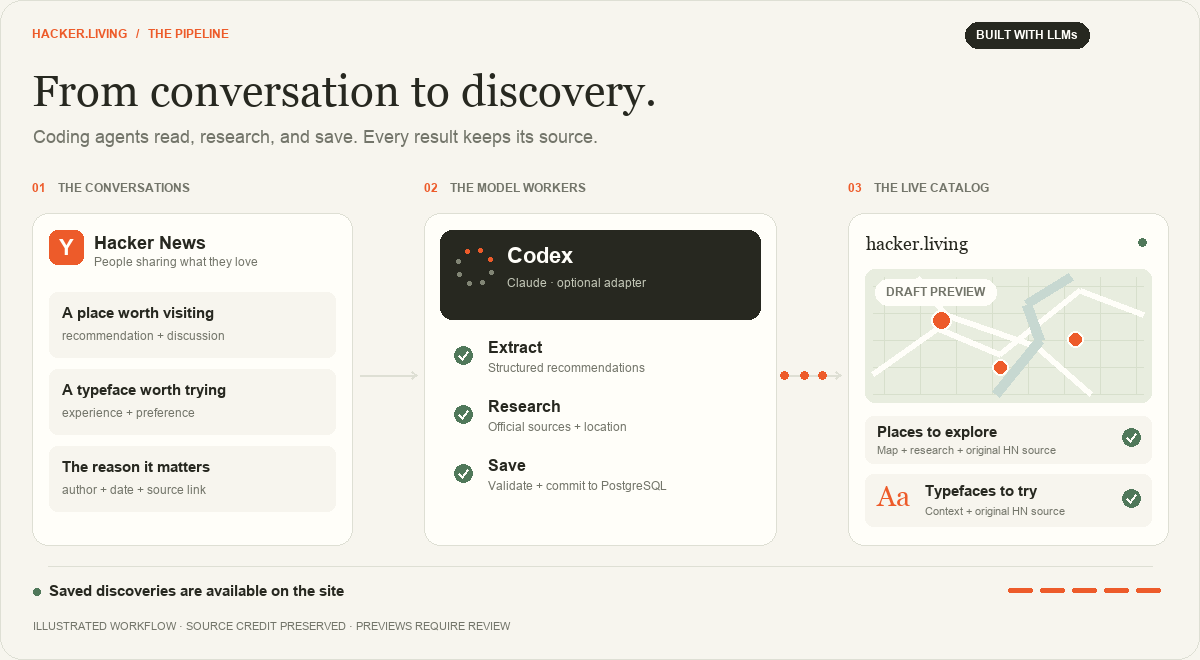
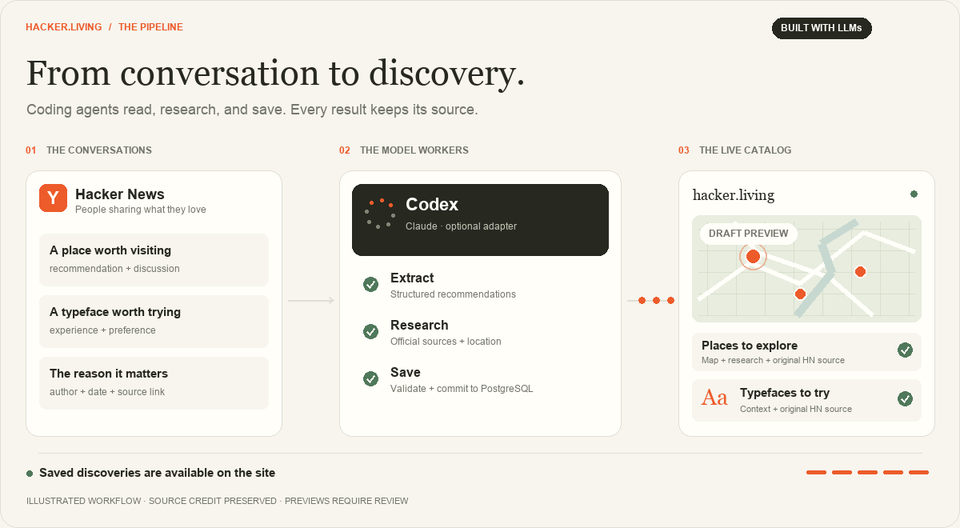
updated

diff --git a/scripts/render-readme.py b/scripts/render-readme.py
@@ -9,7 +9,9 @@ from PIL import Image, ImageDraw, ImageFont
 
 OUT = Path(sys.argv[1]) if len(sys.argv) > 1 else Path(__file__).resolve().parents[1] / 'docs/assets'
 OUT.mkdir(parents=True, exist_ok=True)
-W, H, FPS, SECONDS = 1200, 660, 15, 15
+W, H, FPS, SECONDS = 1200, 660, 12, 8
+OUTPUT_SIZE = (960, 528)
+NARRATIVE_SECONDS = 15
 BG = '#f7f5ee'
 INK = '#272820'
 MUTED = '#73756a'
@@ -148,21 +150,22 @@ def draw_frame(t):
 
 frames=[]
 for index in range(FPS*SECONDS):
-    t=index/FPS
+    t=index/FPS * NARRATIVE_SECONDS / SECONDS
     frame=draw_frame(t)
     # Fade to the start for a gentle loop; keep the header still.
     if t>14:
         frame=Image.blend(frame,draw_frame(0),ease(t-14))
-    frames.append(frame)
+    frames.append(frame.resize(OUTPUT_SIZE, Image.Resampling.LANCZOS))
 # A common palette prevents color flicker. Sample the whole narrative.
-samples=[frames[i] for i in [0,45,90,135,180]]
-sheet=Image.new('RGB',(W,H*len(samples)))
-for i,frame in enumerate(samples): sheet.paste(frame,(0,i*H))
+samples=[frames[round(fraction*(len(frames)-1))] for fraction in [0,.2,.4,.6,.8]]
+width,height=OUTPUT_SIZE
+sheet=Image.new('RGB',(width,height*len(samples)))
+for i,frame in enumerate(samples): sheet.paste(frame,(0,i*height))
 palette=sheet.quantize(colors=128,method=Image.Quantize.MEDIANCUT)
 quantized=[f.quantize(palette=palette,dither=Image.Dither.NONE) for f in frames]
-quantized[0].save(OUT/'pipeline.gif',save_all=True,append_images=quantized[1:],duration=[60,70,70]*(len(frames)//3),loop=0,optimize=True,disposal=1)
-frames[180].save(OUT/'pipeline-poster.png',optimize=True)
-preview=Image.new('RGB',(W,3*H))
-for i,j in enumerate([15,100,185]): preview.paste(frames[j],(0,H*i))
+quantized[0].save(OUT/'pipeline.gif',save_all=True,append_images=quantized[1:],duration=[80,80,90]*(len(frames)//3),loop=0,optimize=True,disposal=1)
+frames[round(.8*(len(frames)-1))].save(OUT/'pipeline-poster.png',optimize=True)
+preview=Image.new('RGB',(width,3*height))
+for i,fraction in enumerate([.07,.44,.82]): preview.paste(frames[round(fraction*(len(frames)-1))],(0,height*i))
 preview.save(OUT/'pipeline-preview.png')
 print(f'{len(frames)} frames; {(OUT/"pipeline.gif").stat().st_size / 1024 / 1024:.2f} MiB')

diff --git a/docs/animation.md b/docs/animation.md
@@ -1,6 +1,6 @@
 # README animation
 
-`docs/assets/pipeline.gif` is a 15-second, 1200 × 660 looping illustration of the pipeline. Its cards are schematic examples, not quotations or measured processing times. Codex is the active extraction/research runtime; Claude is labeled as an optional classification adapter. The live website serves saved results; the animation does not imply continuous ingestion.
+`docs/assets/pipeline.gif` is a 8-second, 960 × 528 looping illustration of the pipeline. Its cards are schematic examples, not quotations or measured processing times. Codex is the active extraction/research runtime; Claude is labeled as an optional classification adapter. The live website serves saved results; the animation does not imply continuous ingestion.
 
 The still alternative is `docs/assets/pipeline-poster.png`. Both retain source attribution and draft status. The GIF is embedded as a normal repository image, with alt text and a still-image link. GIFs cannot respond to a reduced-motion preference; use the still image for a motion-free view.
 

diff --git a/README.md b/README.md
@@ -9,7 +9,7 @@
 </div>
 
 <a href="https://hacker.living">
-  <img src="./docs/assets/pipeline.gif" alt="Animated pipeline: Hacker News conversations flow to Codex workers for extraction and place research, then through validation into PostgreSQL and a live catalog of places and fonts. Claude is an optional classification adapter. Source credit stays attached; results are draft previews." width="1200" />
+  <img src="./docs/assets/pipeline.gif" alt="Animated pipeline: Hacker News conversations flow to Codex workers for extraction and place research, then through validation into PostgreSQL and a live catalog of places and fonts. Claude is an optional classification adapter. Source credit stays attached; results are draft previews." width="960" height="528" />
 </a>
 
 <p align="center"><sub>Illustrated workflow · <a href="./docs/assets/pipeline-poster.png">View the still image</a> · <a href="./docs/animation.md">Animation source</a></sub></p>
